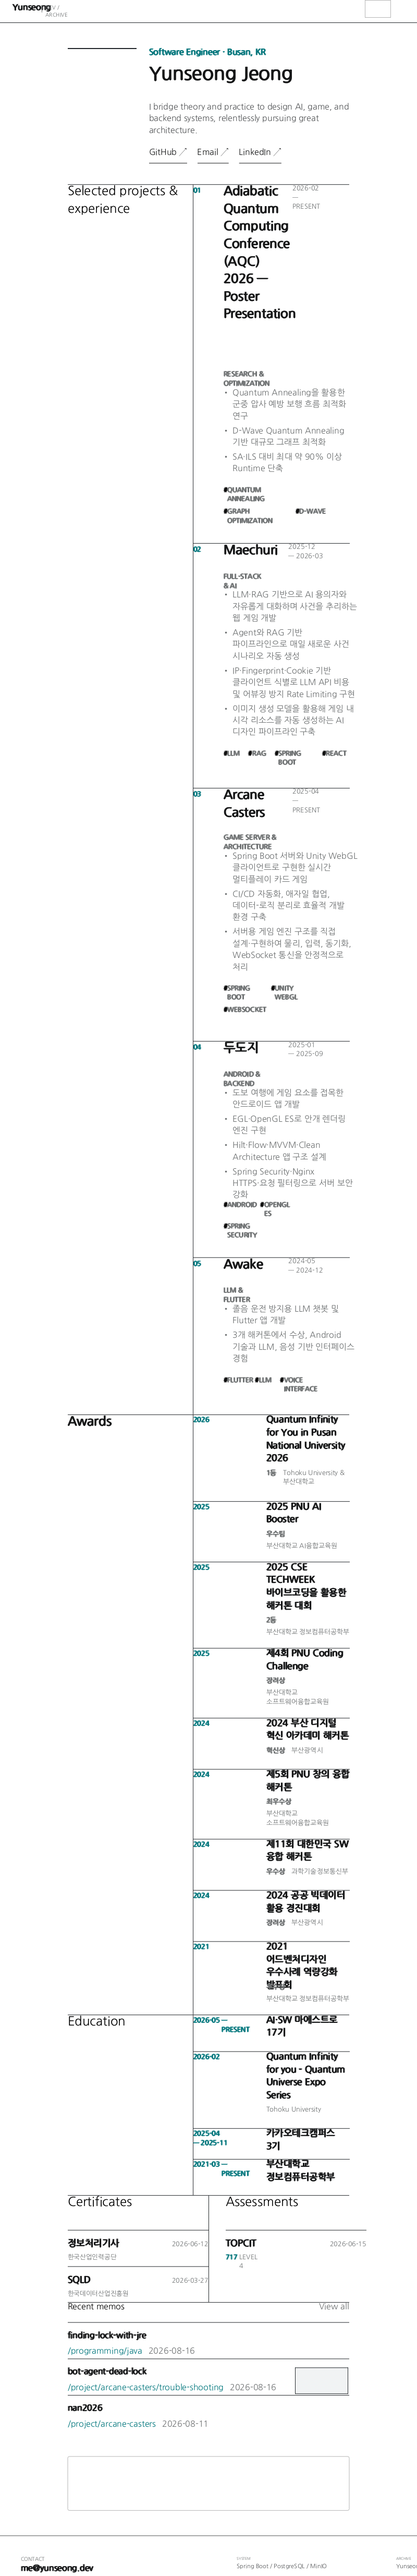
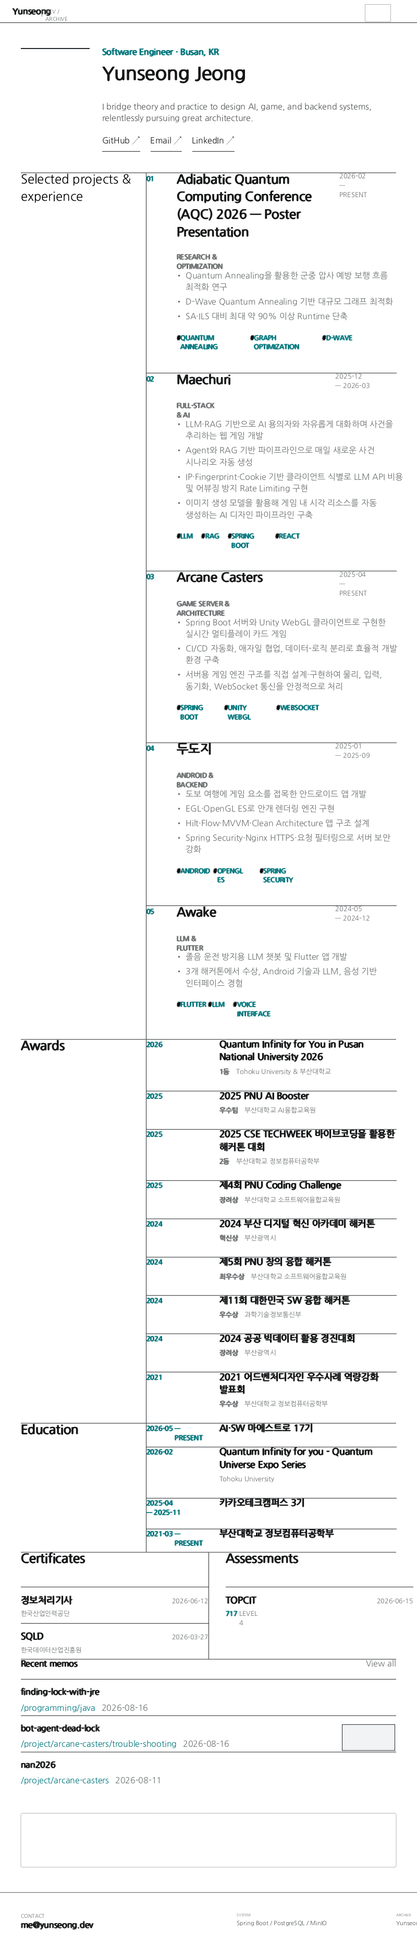
fix(style): stop ::before/::after rules applying to their subject element
Selector matching ignored the pseudo-element part, so every `::before` and
`::after` rule was also applied to the element it decorates. Decorative rules
then rewrote real elements' layout: `.lp-Intro::before { position: fixed }` took
`.lp-Intro` itself out of flow, collapsing it to 1px, and its `overflow: hidden`
clipped away the entire hero inside it. Since generated content is used on
essentially every page, this silently corrupted layout wherever it appeared.

The generated boxes are built separately by inject_pseudo_elements, so the
element match simply rejects selectors carrying a pseudo-element.

Claude-Session: https://claude.ai/code/session_01MVvjtxhhDJEQznXEyw2u3K

diff --git a/tools/parity/fixtures/probe-vars/index.html b/tools/parity/fixtures/probe-vars/index.html
@@ -1,0 +1,27 @@
+<!DOCTYPE html>
+<html lang="en">
+<head>
+<meta charset="utf-8">
+<title>Custom property probe</title>
+<style>
+  body { margin: 0; font: 20px/1.6 sans-serif; background: #fff; }
+  :root, [data-color-mode="light"] { --scale-white: #fff; --scale-black: #000; --text-default: var(--scale-black); }
+  [data-color-mode="dark"] { --scale-white: #fff; --text-default: var(--scale-white); }
+  .panel { background: #001a4d; padding: 12px; }
+  .title { color: var(--text-default); margin: 0; }
+  .chained { color: var(--a, var(--b, #f0f)); }
+  .fallback { color: var(--nope, #0a0); }
+  section { padding: 6px 12px; }
+</style>
+</head>
+<body>
+  <div data-color-mode="light">
+    <section><p class="title">LIGHT should be black</p></section>
+    <div data-color-mode="dark">
+      <div class="panel"><p class="title">DARK should be white on navy</p></div>
+    </div>
+    <section><p class="chained">CHAINED fallback should be magenta</p></section>
+    <section><p class="fallback">FALLBACK should be green</p></section>
+  </div>
+</body>
+</html>

diff --git a/src/style.rs b/src/style.rs
@@ -289,6 +289,14 @@ fn matches_pseudo_class(
 }
 
 fn matches_selector_arena(selector: &Selector, idx: usize, arena: &[NodeDataSend], hovered_id: Option<&str>, focused_id: Option<&str>) -> bool {
+    // A `::before` / `::after` rule targets the generated box, never its subject.
+    // Applying it to the element as well lets a decorative rule rewrite the real
+    // element's style — `.foo::before { position: fixed }` was taking `.foo` out
+    // of flow, collapsing its height and clipping away everything inside it.
+    // The generated boxes are built separately by `inject_pseudo_elements`.
+    if selector.pseudo_element.is_some() {
+        return false;
+    }
     let node = &arena[idx];
     
     let has_constraint = selector.tag.is_some() || selector.id.is_some() || !selector.class.is_empty() || !selector.attributes.is_empty() || !selector.pseudo_classes.is_empty();
